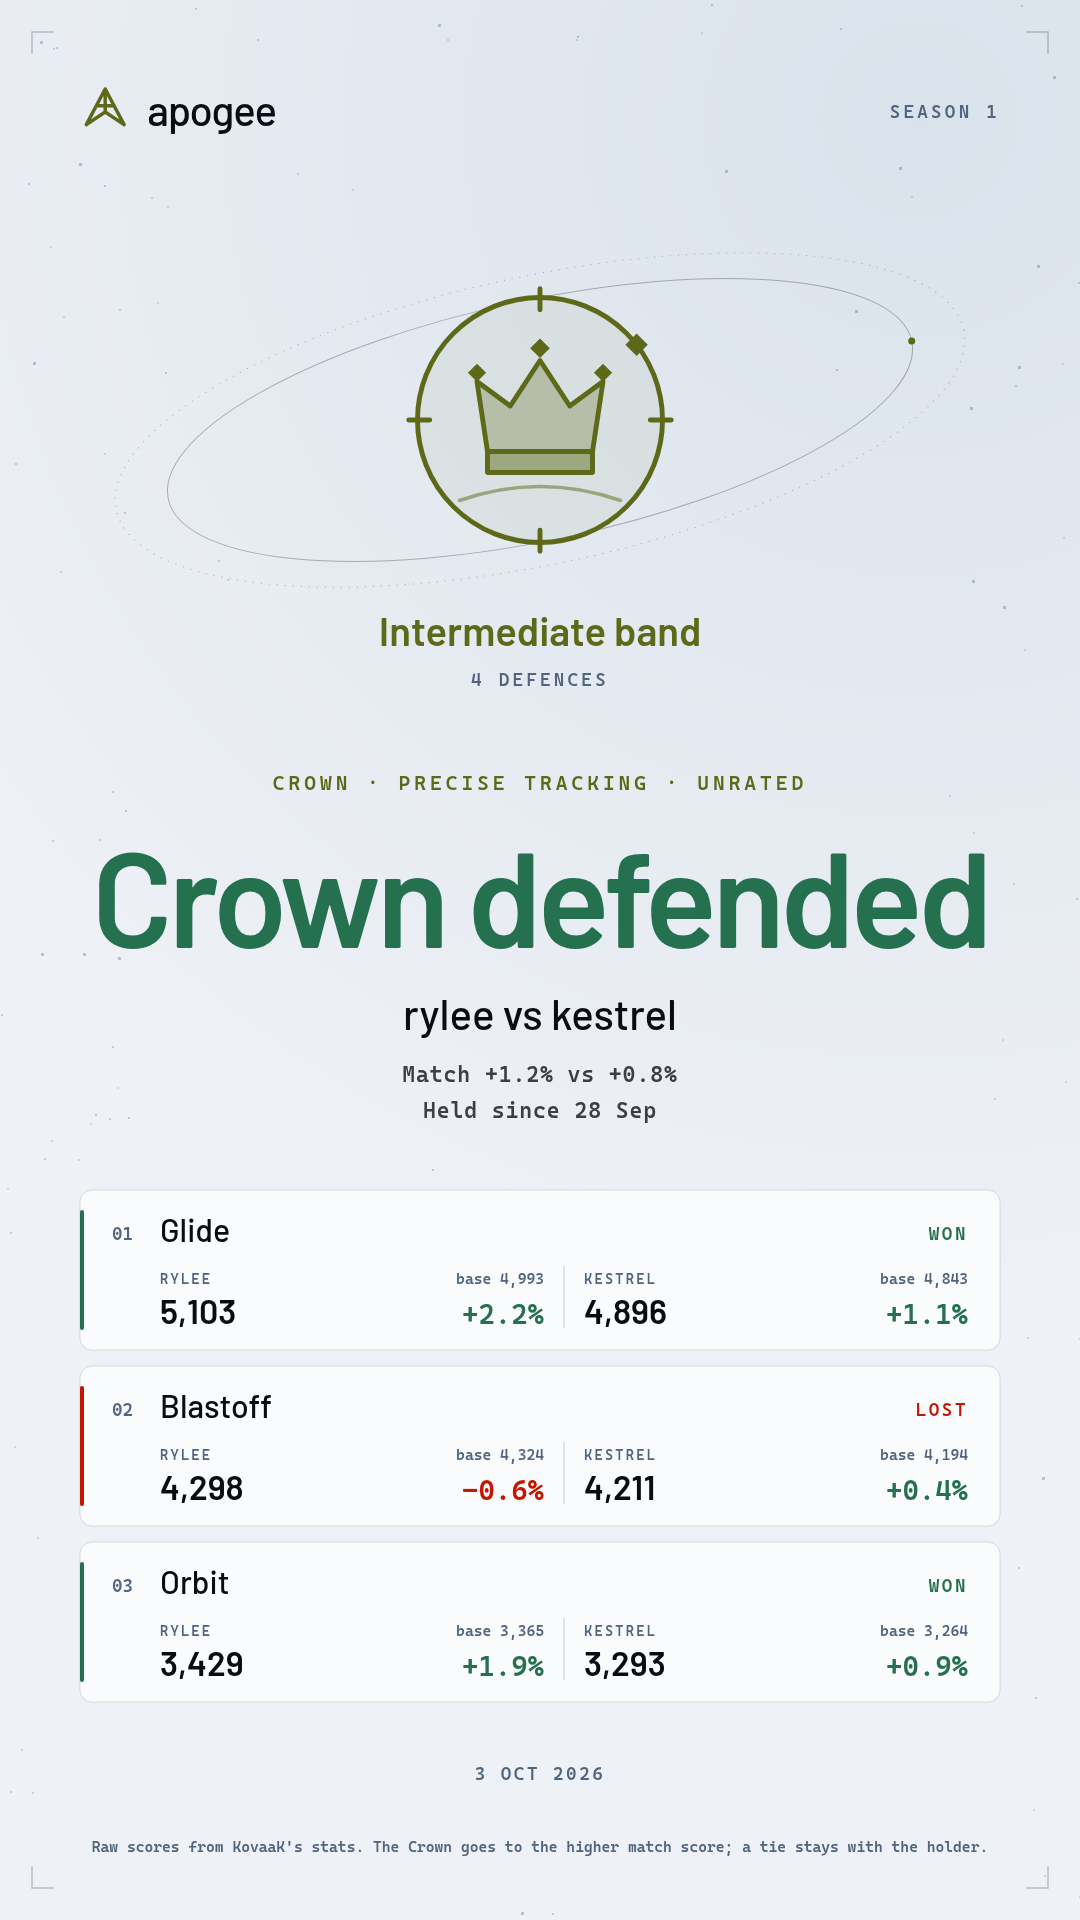
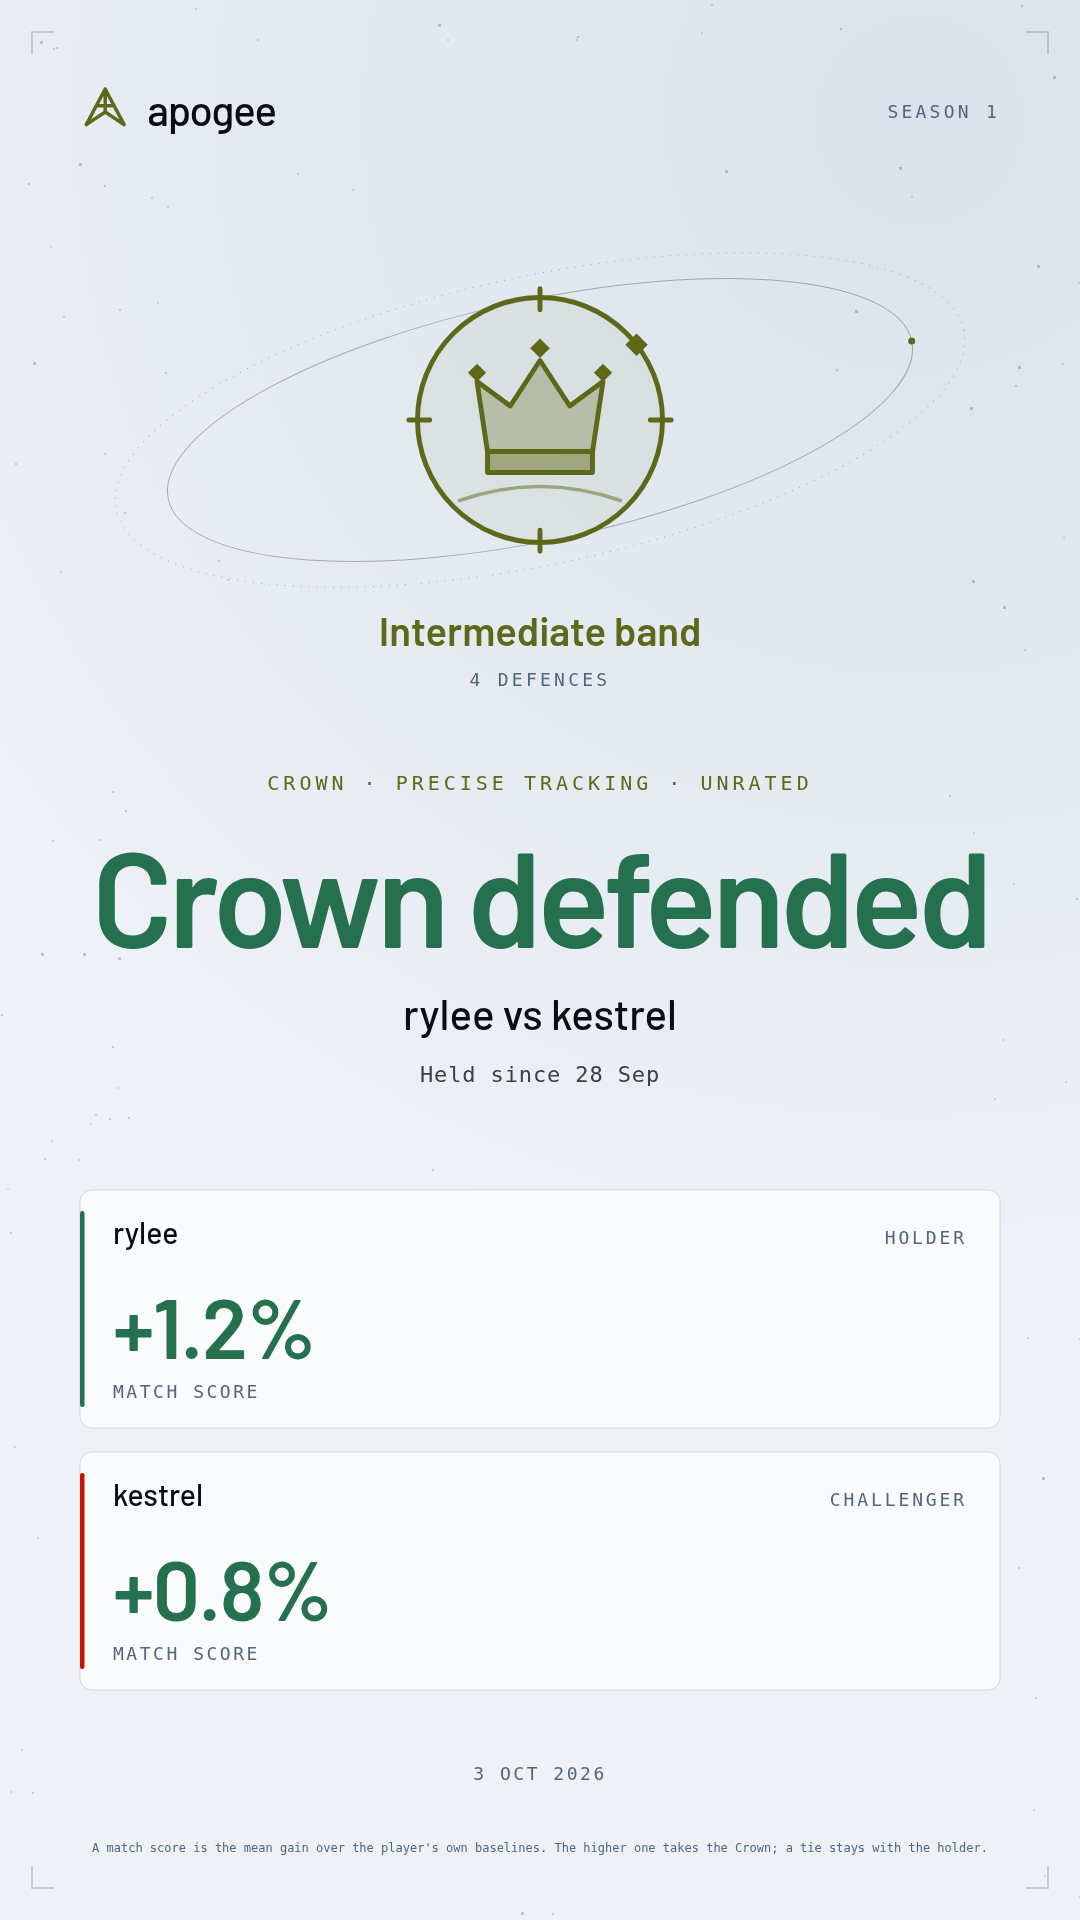
Draw Crown and Flag cards from two match scores when no rounds were sent
An answered Flag reaches the planter through the queue board and a Crown defence
through its notice, and neither carries rounds: only the two match scores. The cards
refused without rounds, so neither could ever be drawn. They now show the two scores
side by side, name each side's role (planted set and answer, holder and challenger),
and say nothing about rounds they were not given. A record with neither rounds nor both
scores is still refused.

The committed Flag and defended Crown samples are re-rendered the way main builds them;
the rounds versions remain as validate:brand edge cases.

Claude-Session: https://claude.ai/code/session_01F8LUzVQh4s6dSdRUEZGMPV

diff --git a/src/core/brand/mechanicCards.ts b/src/core/brand/mechanicCards.ts
@@ -12,7 +12,10 @@
  * The rules the result card keeps, these keep:
  *
  * - A card that shows rounds (crown, flag) shows every round's raw score, baseline and
- *   delta for both sides, through the same landscapeRounds()/portraitRounds().
+ *   delta for both sides, through the same landscapeRounds()/portraitRounds(). When the
+ *   server sent only the two match scores (a Flag answered while you were away, a Crown
+ *   defence read from its notice), the card shows those two, side by side, and says
+ *   nothing about rounds it was not given.
  * - The daily never names a scenario. It cannot: DailyCardInput has no field for one. Each
  *   scenario is a numbered tile with a mark, coded by shape as well as colour (a triangle
  *   up, a disc, a triangle down), so it survives a colour-blind viewer and a greyscale
@@ -33,6 +36,7 @@ import {
   SHARE_CARD_SIZES,
   dateLine,
   defs,
+  deltaColour,
   esc,
   fmtDelta,
   landscapeRounds,
@@ -148,11 +152,12 @@ function figureLines(input: MechanicCardInput): string[] {
       const reign = input.event === "taken"
         ? input.rival && input.rivalReignDays != null ? `Ends a ${input.rivalReignDays}-day reign` : ""
         : input.heldSince ? `Held since ${shortDate(input.heldSince)}` : "";
-      return [matchLine(input.matchScore), reign].filter(Boolean);
+      // Without rounds the two match scores are the card's body; they are not said twice.
+      return [input.rounds.length ? matchLine(input.matchScore) : "", reign].filter(Boolean);
     }
     case "flag":
       return [
-        matchLine(input.matchScore),
+        input.rounds.length ? matchLine(input.matchScore) : "",
         ratingChangeLine(input.player.rating, input.player.ratingChange),
         input.standing != null ? `${plural(input.standing, "flag")} still standing` : "",
       ].filter(Boolean);
@@ -194,10 +199,47 @@ function ruleLine(input: MechanicCardInput): string {
       return "A Shadow is a day at a stated percentile of genuine match scores, against own baselines. It moves no rating.";
     case "crown":
       // A Crown is decided on match score against the holder's stored set (core/crowns).
-      return "Raw scores from KovaaK's stats. The Crown goes to the higher match score; a tie stays with the holder.";
+      return input.rounds.length
+        ? "Raw scores from KovaaK's stats. The Crown goes to the higher match score; a tie stays with the holder."
+        : "A match score is the mean gain over the player's own baselines. The higher one takes the Crown; a tie stays with the holder.";
     default:
-      return "Raw scores from KovaaK's stats. A round goes to whoever beat their own baseline by more.";
+      return input.rounds.length
+        ? "Raw scores from KovaaK's stats. A round goes to whoever beat their own baseline by more."
+        : "A match score is the mean gain over the player's own baselines, from raw scores in KovaaK's stats.";
   }
+}
+
+/**
+ * The two match scores of a crown or flag result whose rounds the server did not send, as
+ * two panels: this player's side, then the other. The side that won carries the up bar.
+ */
+function scorePanels(p: BrandPalette, input: CrownCardInput | FlagCardInput, box: { x: number; y: number; w: number; h: number }, scale: number, stacked: boolean): string {
+  const ms = input.matchScore ?? { you: null, them: null };
+  const rival = input.kind === "crown" ? input.rival?.name ?? "Holder" : input.challenger.name;
+  const roles = input.kind === "flag" ? ["planted set", "answer"] : input.event === "taken" ? ["challenger", "holder"] : ["holder", "challenger"];
+  // A crown result is always the player's to keep (taken or held); a flag can go either way.
+  const youWon = input.kind === "crown" ? true : input.verdict === "win";
+  const level = input.kind === "flag" && input.verdict === "draw";
+  const sides = [
+    { name: input.player.name, role: roles[0], score: ms.you, won: youWon && !level },
+    { name: rival, role: roles[1], score: ms.them, won: !youWon && !level },
+  ];
+  const gap = 16 * scale;
+  const w = stacked ? box.w : (box.w - gap) / 2;
+  const h = stacked ? (box.h - gap) / 2 : box.h;
+  const out: string[] = [];
+  sides.forEach((side, i) => {
+    const x = box.x + (stacked ? 0 : i * (w + gap));
+    const y = box.y + (stacked ? i * (h + gap) : 0);
+    const pad = 22 * scale;
+    out.push(panel(p, x, y, w, h, 8 * scale));
+    out.push(`<rect x="${x}" y="${y + 14 * scale}" width="${3 * scale}" height="${h - 28 * scale}" rx="${1.5 * scale}" fill="${level ? p.inkMid : side.won ? p.up : p.down}"/>`);
+    out.push(text(side.name, x + pad, y + 36 * scale, { size: 20 * scale, fill: p.ink, weight: 500, fit: w - pad * 2 - 150 * scale }));
+    out.push(text(side.role, x + w - pad, y + 36 * scale, { size: 12 * scale, fill: p.inkDim, family: "mono", tracking: 0.16, upper: true, anchor: "end" }));
+    out.push(text(fmtDelta(side.score), x + pad, y + h - 46 * scale, { size: 56 * scale, fill: deltaColour(p, side.score), weight: 600, tracking: -0.02 }));
+    out.push(text("Match score", x + pad, y + h - 20 * scale, { size: 12 * scale, fill: p.inkDim, family: "mono", tracking: 0.14, upper: true }));
+  });
+  return out.join("");
 }
 
 function cardDate(input: MechanicCardInput): string | null | undefined {
@@ -345,6 +387,10 @@ function landscape(input: MechanicCardInput, o: ShareCardOptions): string {
     out.push(text(input.series.length > 1 ? `Last ${plural(input.series.length, "Shadow")}` : "Shadow ladder", L + 16, 392, { size: 11, fill: p.inkDim, family: "mono", tracking: 0.18, upper: true }));
     out.push(text("Each Shadow is a percentile day", R - 16, 392, { size: 11, fill: p.inkDim, family: "mono", tracking: 0.18, upper: true, anchor: "end" }));
     out.push(shadowTiles(p, input, { x: L, y: 404, w: R - L, h: 186 }, 1, n <= 5 ? n : Math.ceil(n / 2)));
+  } else if (!input.rounds.length) {
+    out.push(text("Match", L + 16, 392, { size: 11, fill: p.inkDim, family: "mono", tracking: 0.18, upper: true }));
+    out.push(text("Mean gain over own baselines", R - 16, 392, { size: 11, fill: p.inkDim, family: "mono", tracking: 0.18, upper: true, anchor: "end" }));
+    out.push(scorePanels(p, input, { x: L, y: 404, w: R - L, h: 186 }, 1, false));
   } else {
     const them = input.kind === "crown" ? input.rival?.name ?? "Holder" : input.challenger.name;
     out.push(landscapeRounds(p, input.rounds, { first: "Scenario", you: input.player.name, them }));
@@ -390,6 +436,8 @@ function portrait(input: MechanicCardInput, o: ShareCardOptions): string {
     const n = shadowTileCount(input);
     const perRow = n <= 3 ? n : n === 4 ? 2 : n <= 6 ? 3 : 4;
     out.push(shadowTiles(p, input, { x: L, y: 1190, w: R - L, h: 500 }, 1.35, perRow));
+  } else if (!input.rounds.length) {
+    out.push(scorePanels(p, input, { x: L, y: 1190, w: R - L, h: 500 }, 1.5, true));
   } else {
     const them = input.kind === "crown" ? input.rival?.name ?? "Holder" : input.challenger.name;
     out.push(portraitRounds(p, input.rounds, { you: input.player.name, them }));

diff --git a/tools/brand/mechanicSamples.ts b/tools/brand/mechanicSamples.ts
@@ -125,9 +125,12 @@ export function mechanicSamples(): Record<string, MechanicCardInput> {
     // Daily #3 is the real number for 3 October (core/social/daily.ts counts from 1 October).
     daily: ok(dailyCardInput({ number: 3, band: "Intermediate", date: "2026-10-03", marks: ["above", "near", "below"], meanDelta: (0.031 + 0.006 - 0.018) / 3, streak: 3 }, ctx()), "daily"),
     "crown-taken": ok(crownCardInput({ event: "taken", category: "Speed Switching", band: "Intermediate", rival: { displayName: "ravenous" }, defences: 0, rivalReignDays: 3, ...crownTaken, at }, ctx()), "crown-taken"),
-    "crown-defended": ok(crownCardInput({ event: "defended", category: "Precise Tracking", band: "Intermediate", rival: { displayName: "kestrel" }, defences: 4, heldSince: "2026-09-28", ...crownHeld, at }, ctx()), "crown-defended"),
-    "flag-held": ok(flagCardInput({ category: "Dynamic Clicking", challenger: { displayName: "orbitwalker" }, plantedAt: "2026-10-01", answeredAt: "2026-10-03", rated: true, ratingAfter: 1630, ratingChange: 13, standing: 2, ...flagHeld, verdict: "win" }, ctx()), "flag-held"),
-    "flag-lost": ok(flagCardInput({ category: "Reactive Tracking", challenger: { displayName: "tardigrade_main" }, plantedAt: "2026-09-29", answeredAt: "2026-10-03", rated: true, ratingAfter: 1604, ratingChange: -13, ...flagLost, verdict: "loss" }, ctx()), "flag-lost"),
+    // A defence and an answered Flag reach the app as two match scores and no rounds (a
+    // Crown notice, the queue board's Flags), so their samples are drawn the way main
+    // builds them. The rounds versions are edge cases below (edge-crown-many, edge-flag-*).
+    "crown-defended": ok(crownCardInput({ event: "defended", category: "Precise Tracking", band: "Intermediate", rival: { displayName: "kestrel" }, defences: 4, heldSince: "2026-09-28", ...crownHeld, rounds: [], at }, ctx()), "crown-defended"),
+    "flag-held": ok(flagCardInput({ category: "Dynamic Clicking", challenger: { displayName: "orbitwalker" }, plantedAt: "2026-10-01", answeredAt: "2026-10-03", rated: true, ratingAfter: 1630, ratingChange: 13, standing: 2, ...flagHeld, rounds: [], verdict: "win" }, ctx()), "flag-held"),
+    "flag-lost": ok(flagCardInput({ category: "Reactive Tracking", challenger: { displayName: "tardigrade_main" }, plantedAt: "2026-09-29", answeredAt: "2026-10-03", rated: true, ratingAfter: 1604, ratingChange: -13, ...flagLost, rounds: [], verdict: "loss" }, ctx()), "flag-lost"),
     // A first Shadow match, won: placement still two results away.
     "shadow-placing": ok(shadowCardInput({ ...shadowHistory("Speed Switching", [{ p: 51, you: 0.021 }]), at }, ctx()), "shadow-placing"),
     // Six results up and down the ladder, the read-out showing, the latest a win.
@@ -150,6 +153,9 @@ export function mechanicEdgeCases(): Record<string, MechanicCardInput> {
     "edge-crown-long": ok(crownCardInput({ event: "taken", category: "Evasive Switching", band: "Cosmonaut to Odyssey", rival: { displayName: LONG }, defences: 0, rivalReignDays: 365, ...crown, rounds: long(crown.rounds), at }, ctx(LONG_ME)), "edge-crown-long"),
     "edge-crown-vacant": ok(crownCardInput({ event: "taken", category: "Static Clicking", band: "Stargazer", rival: null, defences: 0, ...crown, at }, ctx()), "edge-crown-vacant"),
     "edge-crown-many": ok(crownCardInput({ event: "defended", category: "Reactive Tracking", band: "1500-1650", rival: { displayName: LONG }, defences: 999, heldSince: "2026-01-01", ...crown, at }, ctx(LONG_ME)), "edge-crown-many"),
+    // Two match scores and nothing else, at the longest names and the widest figures.
+    "edge-flag-scores-long": ok(flagCardInput({ category: "Evasive Switching", challenger: { displayName: LONG }, plantedAt: "2026-09-26", answeredAt: "2026-10-03", rated: true, ratingAfter: 2101, ratingChange: -40, standing: 0, yourMatchScore: -0.1234, theirMatchScore: 0.1456, rounds: [], verdict: "loss" }, ctx(LONG_ME)), "edge-flag-scores-long"),
+    "edge-crown-scores-draw": ok(crownCardInput({ event: "defended", category: "Speed Switching", band: "Cosmonaut to Odyssey", rival: { displayName: LONG }, defences: 12, heldSince: null, yourMatchScore: 0.0123, theirMatchScore: 0.0121, rounds: [], at }, ctx(LONG_ME)), "edge-crown-scores-draw"),
     "edge-flag-draw": ok(flagCardInput({ category: null, challenger: { displayName: LONG }, plantedAt: at, answeredAt: at + 3600_000, rated: false, ...flag, verdict: "draw", rounds: long(flag.rounds) }, ctx(LONG_ME)), "edge-flag-draw"),
     "edge-flag-excluded": ok(flagCardInput({ category: "Speed Switching", challenger: { displayName: "kestrel" }, plantedAt: "2025-10-03", answeredAt: "2026-10-03", rated: true, ratingAfter: 2101, ratingChange: -40, standing: 0, ...flag, verdict: "loss", rounds: flag.rounds.map((r, i) => (i === 1 ? { ...r, counted: false, excludedReason: "left early" } : r)) }, ctx()), "edge-flag-excluded"),
     // Eleven results with a void, an abandon and a level one: trimmed to the last eight.

diff --git a/src/core/brand/shareInput.ts b/src/core/brand/shareInput.ts
@@ -298,7 +298,11 @@ export interface CrownRecord {
   rivalReignDays?: number | null;
   yourMatchScore: number | null;
   theirMatchScore: number | null;
-  /** The deciding match from this player's side: you are the holder on a defence. */
+  /**
+   * The deciding match from this player's side: you are the holder on a defence. Empty
+   * when the server sent only the two match scores (a defence read from its notice); the
+   * card then shows those two scores and no rounds.
+   */
   rounds: SettledRound[];
   /** When main received it, epoch ms. */
   at: number;
@@ -334,7 +338,10 @@ export interface FlagRecord {
   ratingChange?: number | null;
   yourMatchScore: number | null;
   theirMatchScore: number | null;
-  /** The planted set (you) against the answer (them). */
+  /**
+   * The planted set (you) against the answer (them). Empty when the server sent only the
+   * two match scores, which is what the queue board sends for an answered Flag.
+   */
   rounds: SettledRound[];
   /** The planter's other flags still standing after this one settled. */
   standing?: number | null;
@@ -464,7 +471,7 @@ export function dailyCardInput(rec: DailyRecord, ctx: CardContext): DailyCardInp
 
 export function crownCardInput(rec: CrownRecord, ctx: CardContext): CrownCardInput | Refusal {
   if (rec.event !== "taken" && rec.event !== "defended") return { refused: "Unknown crown event." };
-  if (!rec.rounds?.length) return { refused: "This crown match has no rounds to show." };
+  if (!rec.rounds?.length && !(finite(rec.yourMatchScore) && finite(rec.theirMatchScore))) return { refused: "This crown result has no rounds or scores to show." };
   if (rec.event === "defended" && !rec.rival) return { refused: "A defence needs the challenger it held off." };
   return {
     kind: "crown",
@@ -478,14 +485,14 @@ export function crownCardInput(rec: CrownRecord, ctx: CardContext): CrownCardInp
     heldSince: isoDay(rec.heldSince ?? null) ?? (rec.event === "taken" ? localDay(rec.at) : null),
     rivalReignDays: finite(rec.rivalReignDays) && rec.rivalReignDays >= 0 ? Math.round(rec.rivalReignDays) : null,
     matchScore: matchScore(rec.yourMatchScore, rec.theirMatchScore),
-    rounds: settledRounds(rec.rounds),
+    rounds: settledRounds(rec.rounds ?? []),
     playedAt: localDay(rec.at),
   };
 }
 
 export function flagCardInput(rec: FlagRecord, ctx: CardContext): FlagCardInput | Refusal {
   if (rec.verdict === "void") return { refused: "A void answer did not count, so it has no card." };
-  if (!rec.rounds?.length) return { refused: "This flag has no rounds to show." };
+  if (!rec.rounds?.length && !(finite(rec.yourMatchScore) && finite(rec.theirMatchScore))) return { refused: "This flag has no rounds or scores to show." };
   const plantedAt = isoDay(rec.plantedAt);
   const answeredAt = isoDay(rec.answeredAt);
   if (!plantedAt || !answeredAt) return { refused: "This flag is missing when it was planted or answered." };
@@ -505,7 +512,7 @@ export function flagCardInput(rec: FlagRecord, ctx: CardContext): FlagCardInput 
     plantedAt,
     answeredAt,
     matchScore: matchScore(rec.yourMatchScore, rec.theirMatchScore),
-    rounds: settledRounds(rec.rounds),
+    rounds: settledRounds(rec.rounds ?? []),
     standing: Number.isInteger(rec.standing) && (rec.standing as number) >= 0 ? rec.standing : null,
   };
 }

diff --git a/tools/brand/validateBrand.ts b/tools/brand/validateBrand.ts
@@ -124,7 +124,11 @@ check("adapters refuse what they should", () => {
   refused(dailyCardInput({ number: 3, band: "Novice", marks: ["near", "near", "near", "near", "near", "near", "near"], meanDelta: 0, streak: 1 }, ctx));
   refused(dailyCardInput({ number: 3, band: "Novice", marks: ["above", "Glide" as never], meanDelta: 0, streak: 1 }, ctx));
   refused(crownCardInput({ event: "defended", category: "Any", band: "Lunar", rival: null, defences: 1, yourMatchScore: 0.1, theirMatchScore: 0, rounds: [round], at: Date.now() }, ctx));
-  refused(crownCardInput({ event: "taken", category: "Any", band: "Lunar", rival: null, defences: 0, yourMatchScore: 0.1, theirMatchScore: 0, rounds: [], at: Date.now() }, ctx));
+  refused(crownCardInput({ event: "taken", category: "Any", band: "Lunar", rival: null, defences: 0, yourMatchScore: 0.1, theirMatchScore: null, rounds: [], at: Date.now() }, ctx));
+  refused(flagCardInput({ verdict: "win", challenger: { displayName: "x" }, plantedAt: "2026-10-01", answeredAt: "2026-10-02", yourMatchScore: null, theirMatchScore: 0.01, rounds: [] }, ctx));
+  // Two match scores and no rounds is what a notice and the queue board send: drawn, not refused.
+  const scoresOnly = flagCardInput({ verdict: "win", challenger: { displayName: "x" }, plantedAt: "2026-10-01", answeredAt: "2026-10-02", yourMatchScore: 0.02, theirMatchScore: 0.01, rounds: [] }, ctx);
+  assert.ok(!("refused" in scoresOnly) && scoresOnly.rounds.length === 0 && scoresOnly.matchScore?.you === 0.02, "a flag with two match scores and no rounds is drawn");
   refused(flagCardInput({ verdict: "void", challenger: { displayName: "x" }, plantedAt: "2026-10-01", answeredAt: "2026-10-02", yourMatchScore: 0, theirMatchScore: 0, rounds: [round] }, ctx));
   refused(flagCardInput({ verdict: "win", challenger: { displayName: "x" }, plantedAt: "never", answeredAt: "2026-10-02", yourMatchScore: 0, theirMatchScore: 0, rounds: [round] }, ctx));
   refused(shadowCardInput({ series: [{ verdict: "void", percentile: 50 }], at: Date.now() }, ctx));
@@ -216,6 +220,12 @@ function expected(input: MechanicCardInput, texts: string[]): string[] {
     const tierWords = ["Stargazer", "Astrologist", "Cosmonaut", "Lunar", "Odyssey", "Arecibo", "Quasar", "Supernova"];
     if (texts.some((t) => tierWords.some((w) => t.includes(w)))) missing.push("no tier: the app shows none for Shadows");
     if (texts.some((t) => /\brating\b/i.test(t) && !/no rating/i.test(t))) missing.push("no rating figure: Shadows move none");
+  } else if (!input.rounds.length) {
+    // Two panels: both match scores, both names, and no round rows.
+    if (input.matchScore?.you != null) want(fmtDelta(input.matchScore.you));
+    if (input.matchScore?.them != null) want(fmtDelta(input.matchScore.them));
+    if (texts.filter((t) => t === "MATCH SCORE").length !== 2) missing.push("two match score panels");
+    if (texts.some((t) => /^(WON|LOST|DRAW|EXCLUDED)$/.test(t))) missing.push("no round outcome without rounds");
   } else {
     for (const r of input.rounds.slice(0, 3)) {
       want(r.scenario.slice(0, 8));
